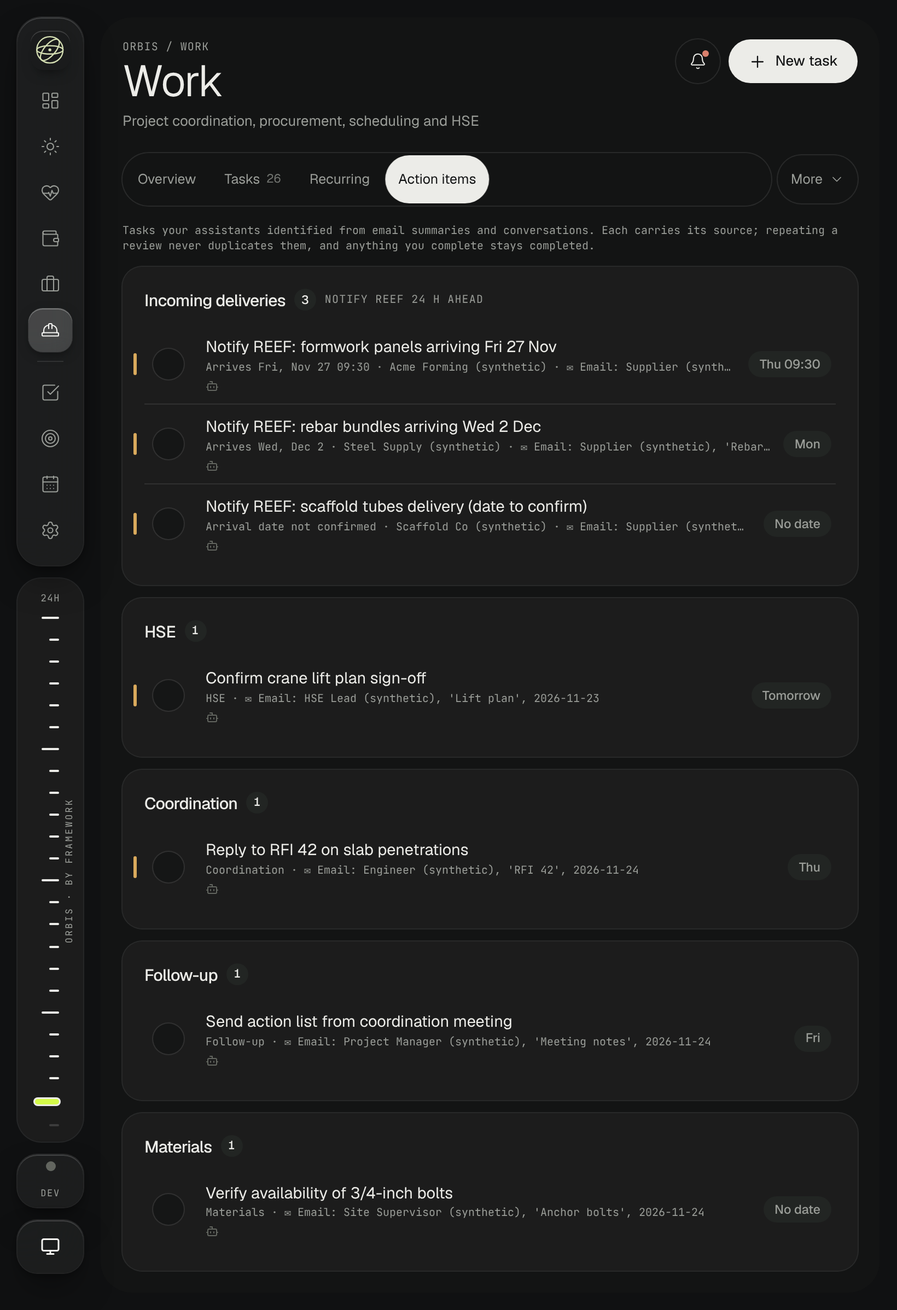
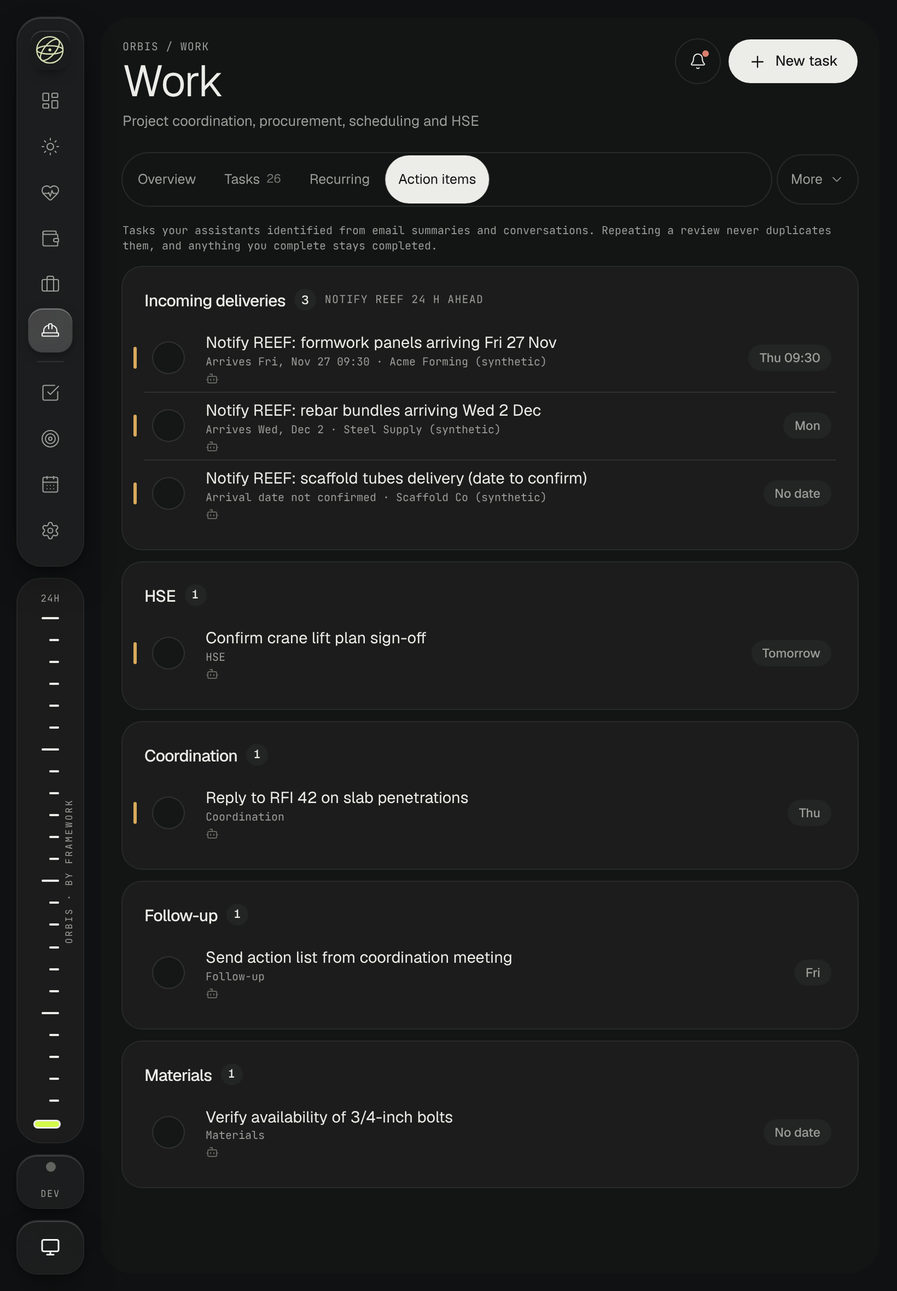
Minimal task rows: hide source references; Datum display name
- No task row or list shows source reference strings; metadata stays on the record and in the detail sheet
- Rows draw a metadata line only when there is content; tighter spacing; recurrence and due dates kept
- "Action items from email" renamed "Action items"
- Work assistant displayed as Datum (display only; module id and stored actor labels unchanged)
- Tests, docs, prompt, screenshots

Claude-Session: https://claude.ai/code/session_01XHFbzGUAobtB6aLD4xwwui

diff --git a/src/components/WorkViews.tsx b/src/components/WorkViews.tsx
@@ -28,7 +28,6 @@ export function taskDetail(t: Task, today: string): string | undefined {
     const l = topicLabel(t); if (l) bits.push(l);
   }
   if (t.recurrence) bits.push(describeRecurrence(t.recurrence));
-  if (t.source.ref) bits.push(`✉ ${t.source.ref}`);
   void today;
   return bits.length ? bits.join(" · ") : undefined;
 }
@@ -61,7 +60,7 @@ export function ActionItemsView({ module }: { module: ModuleId }) {
   const closed = mt.filter((t) => t.type === "action_item" && t.status === "completed").sort((a, b) => (b.completedAt ?? "").localeCompare(a.completedAt ?? "")).slice(0, 8);
   return (
     <div className="space-y-3">
-      <p className="mono !normal-case !tracking-normal">Tasks your assistants identified from email summaries and conversations. Each carries its source; repeating a review never duplicates them, and anything you complete stays completed.</p>
+      <p className="mono !normal-case !tracking-normal">Tasks your assistants identified from email summaries and conversations. Repeating a review never duplicates them, and anything you complete stays completed.</p>
       {items.length === 0 && <Widget title="Action items"><Empty>No open action items. Your assistant adds them when an email asks something of you.</Empty></Widget>}
       {deliveries.length > 0 && (
         <Widget title="Incoming deliveries" count={deliveries.length} tag="Notify REEF 24 h ahead"><TaskList tasks={deliveries} today={today} onToggle={toggle} onOpen={setEdit} /></Widget>
@@ -105,7 +104,7 @@ export function RecurringView({ module }: { module: ModuleId }) {
           {series.map((s) => (
             <Widget key={s.key} title={s.latest.title} tag={s.latest.recurrence ? describeRecurrence(s.latest.recurrence) : undefined} className="!p-3.5">
               {s.next ? <ul><TaskLine t={s.next} today={today} onToggle={toggle} onOpen={setEdit} showModule={false} compact detail={`Next ${pretty(s.next.dueDate ?? today)} · ${relative(s.next.dueDate ?? today, today)}`} /></ul> : <Quiet>Series ended. No further occurrences.</Quiet>}
-              <button onClick={() => setShown(shown === s.key ? null : s.key)} aria-expanded={shown === s.key} className="hit mono mt-1 inline-flex items-center gap-1 self-start !normal-case">
+              <button onClick={() => setShown(shown === s.key ? null : s.key)} aria-expanded={shown === s.key} className="hit mono mt-1 inline-flex items-center gap-1 self-start !normal-case md:!min-h-0">
                 History · {s.done.length} completed{s.done[0]?.completedAt ? ` · last ${pretty(s.done[0].completedAt.slice(0, 10))}` : ""}
                 <ChevronDown size={13} className={cx("transition-transform", shown === s.key && "rotate-180")} aria-hidden />
               </button>
@@ -150,7 +149,7 @@ export function WorkOverview({ module }: { module: ModuleId }) {
           <Widget title="Today's responsibilities" count={dueNow.length}>
             {dueNow.length === 0 ? <Quiet>Nothing due today. Next up is below.</Quiet> : <TaskList tasks={dueNow} today={today} onToggle={toggle} onOpen={setEdit} limit={8} />}
           </Widget>
-          <Widget title="Action items from email" count={actions.length} action={<ViewAll tab="actions" />}>
+          <Widget title="Action items" count={actions.length} action={<ViewAll tab="actions" />}>
             {actions.length === 0 ? <Quiet>No open action items.</Quiet> : <TaskList tasks={actions} today={today} onToggle={toggle} onOpen={setEdit} limit={5} />}
           </Widget>
           <Widget title="Manual tasks" count={manual.length} action={<ViewAll tab="tasks" />}>
@@ -163,7 +162,7 @@ export function WorkOverview({ module }: { module: ModuleId }) {
               <ul>{deliveries.slice(0, 5).map((t) => (
                 <li key={t.id} className="flex items-start gap-2.5 border-t border-line py-2 first:border-t-0">
                   <Truck size={15} strokeWidth={1.5} className="mt-0.5 shrink-0 text-muted" aria-hidden />
-                  <button onClick={() => setEdit(t)} className="hit min-w-0 flex-1 text-left"><span className="line-clamp-2 text-[14px]">{t.title}</span><span className="mono mt-0.5 block truncate !normal-case !tracking-normal">{taskDetail(t, today)}</span></button>
+                  <button onClick={() => setEdit(t)} className="hit min-w-0 flex-1 text-left md:!min-h-0"><span className="line-clamp-2 text-[14px]">{t.title}</span><span className="mono mt-0.5 block truncate !normal-case !tracking-normal">{taskDetail(t, today)}</span></button>
                   {t.dueDate ? <Status tone={t.dueDate < today ? "bad" : "neutral"}>{`Notify ${relative(t.dueDate, today)}${t.dueTime ? ` ${t.dueTime}` : ""}`}</Status> : <Status tone="lime">Needs date</Status>}
                 </li>))}</ul>
             )}
@@ -171,9 +170,9 @@ export function WorkOverview({ module }: { module: ModuleId }) {
           <Widget title="Upcoming recurring" count={recurring.length} action={<ViewAll tab="recurring" />}>
             {recurring.length === 0 ? <Quiet>No recurring deadlines in the next two weeks.</Quiet> : (
               <ul>{recurring.slice(0, 6).map((t) => (
-                <li key={t.id} className="flex items-center gap-3 border-t border-line py-2 text-[13.5px] first:border-t-0">
+                <li key={t.id} className="flex items-center gap-3 border-t border-line py-1 text-[13.5px] first:border-t-0 md:py-1.5">
                   <span className="mono w-[74px] shrink-0">{pretty(t.dueDate!)}</span>
-                  <button onClick={() => setEdit(t)} className="hit min-w-0 flex-1 truncate text-left">{t.title}</button>
+                  <button onClick={() => setEdit(t)} className="hit min-w-0 flex-1 truncate text-left md:!min-h-0">{t.title}</button>
                 </li>))}</ul>
             )}
           </Widget>
@@ -190,5 +189,5 @@ export function WorkOverview({ module }: { module: ModuleId }) {
 import { useSearchParams } from "react-router-dom";
 function ViewAll({ tab }: { tab: string }) {
   const [, setSp] = useSearchParams();
-  return <button onClick={() => setSp((p) => { const n = new URLSearchParams(p); n.set("tab", tab); return n; }, { replace: true })} className="hit mono !normal-case underline-offset-2 hover:underline">View all</button>;
+  return <button onClick={() => setSp((p) => { const n = new URLSearchParams(p); n.set("tab", tab); return n; }, { replace: true })} className="hit mono !normal-case underline-offset-2 hover:underline md:!min-h-0">View all</button>;
 }

diff --git a/src/components/TaskLine.tsx b/src/components/TaskLine.tsx
@@ -1,5 +1,5 @@
 import { useEffect, useRef, useState } from "react";
-import { MODULES_META } from "../../shared/modules";
+import { assistantShortName, MODULES_META, type ModuleId } from "../../shared/modules";
 import { priorityLevel } from "../../shared/taskViews";
 import type { Tick } from "../../shared/viz";
 import { cx } from "../lib/cx";
@@ -37,7 +37,8 @@ function CheckMark({ done, fresh }: { done: boolean; fresh: boolean }) {
 export function TaskLine({ t, today, onToggle, onOpen, showModule = true, compact = false, detail }: { t: Task; today: string; onToggle: (t: Task) => void; onOpen?: (t: Task) => void; showModule?: boolean; compact?: boolean; detail?: string }) {
   const done = t.status === "completed";
   const bar = PRIORITY_BAR[t.priority];
-  const assistant = t.source.assistant ? (MODULES_META[t.source.assistant as keyof typeof MODULES_META]?.assistant ?? t.source.assistant) : null;
+  const assistant = t.source.assistant ? assistantShortName(t.source.assistant as ModuleId) : null;
+  const hasMeta = showModule || !!t.recurrence || isUnverified(t.source) || (!!assistant && !compact) || t.demo;
   const [fresh, setFresh] = useState(false);
   const [leaving, setLeaving] = useState(false);
   const timers = useRef<number[]>([]);
@@ -49,23 +50,23 @@ export function TaskLine({ t, today, onToggle, onOpen, showModule = true, compac
     timers.current.push(window.setTimeout(() => onToggle(t), 420));
   };
   return (
-    <li className={cx("relative flex items-start gap-1 border-t border-line py-0.5 first:border-t-0 md:items-center md:gap-3", compact ? "md:py-1" : "md:py-3", leaving && "row-leave")} style={leaving ? { animationDelay: "180ms" } : undefined}>
+    <li className={cx("relative flex items-start gap-1 border-t border-line py-0.5 first:border-t-0 md:items-center md:gap-3", compact ? "md:py-0.5" : "md:py-2", leaving && "row-leave")} style={leaving ? { animationDelay: "180ms" } : undefined}>
       {bar && !done && <span aria-hidden className="absolute -left-2 top-3 h-5 w-[3px] rounded-full md:left-[-10px] md:top-1/2 md:-translate-y-1/2" style={{ background: bar }} />}
       <button onClick={toggle} aria-label={done ? `Reopen ${t.title}` : `Mark ${t.title} completed`} aria-pressed={leaving ? !done : done} className="hit press grid shrink-0 place-items-center">
         <CheckMark done={leaving ? !done : done} fresh={fresh} />
       </button>
-      <button onClick={() => onOpen?.(t)} className="hit min-w-0 flex-1 py-1.5 text-left" aria-label={`Open ${t.title}`}>
+      <button onClick={() => onOpen?.(t)} className="hit min-w-0 flex-1 py-1.5 text-left md:py-1" aria-label={`Open ${t.title}`}>
         <span className={cx("break-words text-[14.5px] leading-snug [overflow-wrap:anywhere] line-clamp-2", done && "text-muted line-through")}>{t.title}</span>
-        {detail && <span className="mono mt-0.5 block truncate !normal-case !tracking-normal">{detail}</span>}
-        <span className="mt-1 flex min-w-0 items-center gap-1.5">
+        {detail && <span className="mono mt-px block truncate !normal-case !tracking-normal">{detail}</span>}
+        {hasMeta && <span className="mt-0.5 flex min-w-0 items-center gap-1.5">
           {showModule && <ModuleIcon id={t.module} size={18} />}
           {showModule && !compact && <span className="mono hidden md:inline">{MODULES_META[t.module].label}</span>}
           {t.recurrence && <Repeat size={11} aria-label="Repeats" className="shrink-0 text-faint" />}
           {isUnverified(t.source) && <ProvenanceMark />}
           {assistant && !compact && <span className="mono hidden truncate md:inline">via {assistant}</span>}
           {t.demo && <SyntheticMark />}
-          {t.priority === "critical" || t.priority === "high" ? <span className="sr-only">{t.priority} priority</span> : null}
-        </span>
+        </span>}
+        {t.priority === "critical" || t.priority === "high" ? <span className="sr-only">{t.priority} priority</span> : null}
       </button>
       <div className={cx("flex shrink-0 items-center self-center pr-1", !compact && "md:hidden")}><DueChip t={t} today={today} /></div>
       {!done && !compact && <SegBar ticks={prioTicks(t.priority)} label={`Priority ${t.priority}`} height={12} className="hidden w-14 shrink-0 md:flex" />}

diff --git a/src/pages/ModulePage.tsx b/src/pages/ModulePage.tsx
@@ -2,7 +2,7 @@ import { Plus } from "lucide-react";
 import { useState } from "react";
 import { Navigate, useParams, useSearchParams } from "react-router-dom";
 import { HORIZONS, HORIZON_LABELS, horizonOf } from "../../shared/horizons";
-import { isModule, MODULES_META, type ModuleId } from "../../shared/modules";
+import { assistantName, isModule, MODULES_META, shownActor, type ModuleId } from "../../shared/modules";
 import { addDays } from "../../shared/rotation";
 import { fillTicks } from "../../shared/viz";
 import { EventEditor, GoalEditor, HabitEditor, TaskEditor } from "../components/editors";
@@ -97,7 +97,7 @@ function Module({ id }: { id: ModuleId }) {
 
       {tab === "briefing" && (
         <Widget title="Briefing" tag={briefing.data ? `as of ${briefing.data.asOf.slice(11, 16)} UTC` : undefined}>
-          <p className="mono mb-3 !normal-case !tracking-normal">Computed by Orbis from this module's live records. The {meta.label} assistant reads the same briefing, so completing a task anywhere updates it everywhere.</p>
+          <p className="mono mb-3 !normal-case !tracking-normal">Computed by Orbis from this module's live records. The {assistantName(id)} assistant reads the same briefing, so completing a task anywhere updates it everywhere.</p>
           {briefing.loading ? <Empty>Loading…</Empty> : !briefing.data ? <Empty>{briefing.error ?? "No briefing."}</Empty> : (
             <div className="grid gap-5 @[640px]:grid-cols-2">
               <div>
@@ -119,10 +119,10 @@ function Module({ id }: { id: ModuleId }) {
       {tab === "activity" && (
         <div className="grid gap-3 @[960px]:grid-cols-2">
           <Widget title="Activity history" tag="Audited changes">
-            {activity.loading ? <Empty>Loading…</Empty> : rows.length === 0 ? <Empty>No activity yet.</Empty> : <ul>{rows.map((a, i) => <li key={i} className="flex items-center justify-between gap-3 border-t border-line py-2 text-[13px] first:border-t-0"><span className="min-w-0 truncate">{a.action} <span className="text-muted">· {a.actor}{a.via ? ` via ${a.via}` : ""}</span></span><span className="mono shrink-0">{a.at.slice(5, 16).replace("T", " ")}</span></li>)}</ul>}
+            {activity.loading ? <Empty>Loading…</Empty> : rows.length === 0 ? <Empty>No activity yet.</Empty> : <ul>{rows.map((a, i) => <li key={i} className="flex items-center justify-between gap-3 border-t border-line py-2 text-[13px] first:border-t-0"><span className="min-w-0 truncate">{a.action} <span className="text-muted">· {shownActor(a.actor)}{a.via ? ` via ${a.via}` : ""}</span></span><span className="mono shrink-0">{a.at.slice(5, 16).replace("T", " ")}</span></li>)}</ul>}
           </Widget>
           <Widget title="Assistant requests" tag="Via the inbox">
-            {mine.length === 0 ? <Empty>No requests from the {meta.label} assistant yet.</Empty> : <ul>{mine.slice(0, 15).map((r) => <li key={r.id} className="flex items-center justify-between gap-3 border-t border-line py-2 text-[13px] first:border-t-0"><span className="min-w-0 truncate">{r.op}{r.result?.message ? <span className="text-muted"> · {r.result.message}</span> : null}</span><Status tone={r.status === "applied" ? "ok" : r.status === "duplicate" ? "idle" : r.status === "approval_required" ? "lime" : "bad"}>{r.status.replace("_", " ")}</Status></li>)}</ul>}
+            {mine.length === 0 ? <Empty>No requests from the {assistantName(id)} assistant yet.</Empty> : <ul>{mine.slice(0, 15).map((r) => <li key={r.id} className="flex items-center justify-between gap-3 border-t border-line py-2 text-[13px] first:border-t-0"><span className="min-w-0 truncate">{r.op}{r.result?.message ? <span className="text-muted"> · {r.result.message}</span> : null}</span><Status tone={r.status === "applied" ? "ok" : r.status === "duplicate" ? "idle" : r.status === "approval_required" ? "lime" : "bad"}>{r.status.replace("_", " ")}</Status></li>)}</ul>}
           </Widget>
         </div>
       )}

diff --git a/src/pages/Settings.tsx b/src/pages/Settings.tsx
@@ -1,7 +1,7 @@
 import { Check, X } from "lucide-react";
 import { useState } from "react";
 import { MODULE_IDS, MODULES_META, type ModuleId } from "../../shared/modules";
-import { assistantLabel } from "../../shared/modules";
+import { assistantDisplayLabel, assistantName, shownActor } from "../../shared/modules";
 import { Field, Select, TextInput } from "../components/forms";
 import { EnvCard } from "../components/EnvSwitch";
 import { Btn, Empty, PageHeader, Status, Widget } from "../components/ui";
@@ -93,7 +93,7 @@ export default function Settings({ who, environment, signedIn }: { who: string; 
               const mine = inbox.filter((r) => r.assistant === m);
               return (
                 <li key={m} className="flex items-center justify-between gap-3 border-t border-line py-2.5 text-[13.5px] first:border-t-0 first:pt-0">
-                  <span>{assistantLabel(m)}</span>
+                  <span>{assistantDisplayLabel(m)}</span>
                   <span className="mono">{mine.length ? `${mine.length} recent request${mine.length > 1 ? "s" : ""} · last ${mine[0].createdAt.slice(5, 16).replace("T", " ")}` : "No requests yet"}</span>
                 </li>
               );
@@ -132,11 +132,11 @@ export default function Settings({ who, environment, signedIn }: { who: string; 
           <div className="grid gap-6 md:grid-cols-2">
             <div>
               <p className="mono mb-2">Inbox</p>
-              {inbox.length === 0 ? <Empty>No requests yet.</Empty> : <ul>{inbox.slice(0, 12).map((r) => <li key={r.id} className="flex items-center justify-between gap-3 border-t border-line py-2 text-[13px] first:border-t-0"><span className="min-w-0 truncate">{MODULES_META[r.assistant]?.label} · {r.op}{r.result?.message ? <span className="text-muted"> · {r.result.message}</span> : null}</span><Status tone={r.status === "applied" ? "ok" : r.status === "duplicate" ? "idle" : r.status === "approval_required" ? "lime" : "bad"}>{r.status.replace("_", " ")}</Status></li>)}</ul>}
+              {inbox.length === 0 ? <Empty>No requests yet.</Empty> : <ul>{inbox.slice(0, 12).map((r) => <li key={r.id} className="flex items-center justify-between gap-3 border-t border-line py-2 text-[13px] first:border-t-0"><span className="min-w-0 truncate">{assistantName(r.assistant)} · {r.op}{r.result?.message ? <span className="text-muted"> · {r.result.message}</span> : null}</span><Status tone={r.status === "applied" ? "ok" : r.status === "duplicate" ? "idle" : r.status === "approval_required" ? "lime" : "bad"}>{r.status.replace("_", " ")}</Status></li>)}</ul>}
             </div>
             <div>
               <p className="mono mb-2">Audit trail</p>
-              {activity.length === 0 ? <Empty>No activity.</Empty> : <ul>{activity.slice(0, 12).map((a, i) => <li key={i} className="flex items-center justify-between gap-3 border-t border-line py-2 text-[13px] first:border-t-0"><span className="min-w-0 truncate">{a.action} <span className="text-muted">· {a.actor}</span></span><span className="mono shrink-0">{a.at.slice(5, 16).replace("T", " ")}</span></li>)}</ul>}
+              {activity.length === 0 ? <Empty>No activity.</Empty> : <ul>{activity.slice(0, 12).map((a, i) => <li key={i} className="flex items-center justify-between gap-3 border-t border-line py-2 text-[13px] first:border-t-0"><span className="min-w-0 truncate">{a.action} <span className="text-muted">· {shownActor(a.actor)}</span></span><span className="mono shrink-0">{a.at.slice(5, 16).replace("T", " ")}</span></li>)}</ul>}
             </div>
           </div>
         </Widget>

diff --git a/tests/mobile-ui.test.ts b/tests/mobile-ui.test.ts
@@ -174,7 +174,7 @@ describe("Orbis brand and the Work command centre", () => {
     expect(PRIMARY_TABS.progressive.slice(0, 4)).toEqual(["overview", "tasks", "recurring", "actions"]);
     const page = read("src/pages/ModulePage.tsx"), views = read("src/components/WorkViews.tsx");
     expect(page).toContain('id === "progressive" && <WorkOverview'); expect(page).toContain("<RecurringView"); expect(page).toContain("<ActionItemsView");
-    for (const section of ["Today's responsibilities", "Action items from email", "Incoming deliveries", "Upcoming recurring", "Manual tasks", "Meetings and events"]) expect(views).toContain(section);
+    for (const section of ["Today's responsibilities", "Action items", "Incoming deliveries", "Upcoming recurring", "Manual tasks", "Meetings and events"]) expect(views).toContain(section);
     expect(views).not.toMatch(/style=\{\{/); expect(views).not.toContain("dangerouslySetInnerHTML");
   });
   it("the task editor exposes rotation awareness and last-day-of-month", () => {
@@ -191,5 +191,26 @@ describe("glass and staggered card entrance are actually applied", () => {
     expect(read("src/pages/Dashboard.tsx")).toContain('className="stagger grid');
     expect(read("src/components/WorkViews.tsx").match(/stagger/g)!.length).toBeGreaterThanOrEqual(4);
     expect(css).toMatch(/\.stagger > \* \{ animation: rise [^;]*backwards/); // backwards fill: no trapped fixed sheets, no replay on data refresh
+  });
+});
+
+describe("task rows are minimal: no source references, Datum is a display name only", () => {
+  it("no task row or list shows a source reference string; the metadata stays on the record", () => {
+    for (const f of ["src/components/TaskLine.tsx", "src/components/WorkViews.tsx", "src/components/TaskGroups.tsx", "src/components/TasksView.tsx", "src/pages/Dashboard.tsx", "src/pages/ModulePage.tsx", "src/pages/Tasks.tsx", "src/pages/Calendar.tsx"]) expect(read(f), f).not.toMatch(/source\??\.ref|sourceRef/);
+    expect(read("src/lib/types.ts")).toContain("source: Source"); // the data is still delivered to the app (and stored) for sync, duplicate prevention and audit
+    expect(read("src/components/WorkViews.tsx")).not.toContain("✉");
+  });
+  it("rows only render a metadata line when there is something to show, and keep recurrence and due dates", () => {
+    const row = read("src/components/TaskLine.tsx");
+    expect(row).toContain("hasMeta &&"); expect(row).toContain("Repeat size={11}"); expect(row).toContain("<DueChip");
+    expect(read("src/components/WorkViews.tsx")).toContain("describeRecurrence(t.recurrence)");
+  });
+  it("Datum is the displayed name of the Work assistant; module ids and stored labels are unchanged", async () => {
+    const m = await import("../shared/modules");
+    expect(m.assistantShortName("progressive")).toBe("Datum"); expect(m.assistantName("progressive")).toBe("Datum"); expect(m.assistantDisplayLabel("progressive")).toBe("ChatGPT: Datum assistant");
+    expect(m.assistantLabel("progressive")).toBe("ChatGPT: Progressive assistant"); // stored on records (source name): the dedupe key, never renamed
+    expect(m.MODULES_META.progressive.assistant).toBe("Progressive"); expect(m.MODULE_IDS).toContain("progressive");
+    expect(m.shownActor("ChatGPT: Progressive assistant")).toBe("ChatGPT: Datum assistant"); expect(m.shownActor("ChatGPT: Daily assistant")).toBe("ChatGPT: Daily assistant"); expect(m.shownActor("Owner")).toBe("Owner");
+    expect(m.assistantNameOf("progressive")).toBe("Datum"); expect(m.assistantNameOf("someone")).toBe("someone");
   });
 });

diff --git a/src/components/editors.tsx b/src/components/editors.tsx
@@ -1,5 +1,5 @@
 import { useState } from "react";
-import { MODULE_IDS, MODULES_META, type ModuleId } from "../../shared/modules";
+import { assistantNameOf, MODULE_IDS, MODULES_META, shownActor, type ModuleId } from "../../shared/modules";
 import { api, patch, post } from "../lib/api";
 import { useData } from "../lib/data";
 import { useApi } from "../lib/useApi";
@@ -83,13 +83,13 @@ export function TaskEditor({ task, defaults, onClose }: { task?: Task; defaults?
           {task.source.kind === "assistant" && (
             <div role="note" className="panel-dim mb-3 p-3.5 text-[13px]">
               <p className="font-medium">Unverified source</p>
-              <p className="mt-1 text-muted">Filed by an assistant through the inbox. It says it is the {MODULES_META[task.source.assistant as ModuleId]?.label ?? task.source.assistant} assistant, but that identity is self-declared and not verified. Check it before relying on it.{task.source.ref ? ` Reference: ${task.source.ref}.` : ""}</p>
+              <p className="mt-1 text-muted">Filed by an assistant through the inbox. It says it is the {assistantNameOf(task.source.assistant ?? "")} assistant, but that identity is self-declared and not verified. Check it before relying on it.{task.source.ref ? ` Reference: ${task.source.ref}.` : ""}</p>
             </div>
           )}
           <p className="mono mb-2">Source and history</p>
-          <p className="mono mb-2 !normal-case !tracking-normal">{task.source.kind === "assistant" ? `Filed through the inbox by "${task.createdBy}"` : task.source.assistant ? `Created by the ${MODULES_META[task.source.assistant as ModuleId]?.label ?? task.source.assistant} assistant` : `Created by ${task.createdBy}`}{task.source.kind !== "assistant" && task.source.ref ? ` · ref ${task.source.ref}` : ""}{task.completedAt ? ` · completed ${task.completedAt.slice(0, 10)}` : ""}</p>
+          <p className="mono mb-2 !normal-case !tracking-normal">{task.source.kind === "assistant" ? `Filed through the inbox by "${shownActor(task.createdBy)}"` : task.source.assistant ? `Created by the ${assistantNameOf(task.source.assistant ?? "")} assistant` : `Created by ${task.createdBy}`}{task.source.kind !== "assistant" && task.source.ref ? ` · ref ${task.source.ref}` : ""}{task.completedAt ? ` · completed ${task.completedAt.slice(0, 10)}` : ""}</p>
           <ul className="space-y-1 text-[12.5px]">
-            {(hist.data?.events ?? []).slice(-8).reverse().map((e, i) => <li key={i} className="flex justify-between gap-3"><span>{e.event} · {e.actorLabel}</span><span className="mono">{e.at.slice(0, 16).replace("T", " ")}</span></li>)}
+            {(hist.data?.events ?? []).slice(-8).reverse().map((e, i) => <li key={i} className="flex justify-between gap-3"><span>{e.event} · {shownActor(e.actorLabel)}</span><span className="mono">{e.at.slice(0, 16).replace("T", " ")}</span></li>)}
           </ul>
         </div>
       )}

diff --git a/shared/modules.ts b/shared/modules.ts
@@ -14,7 +14,18 @@ export const MODULES_META: Record<ModuleId, ModuleMeta> = {
 export const isModule = (v: unknown): v is ModuleId => typeof v === "string" && (MODULE_IDS as readonly string[]).includes(v);
 export const moduleLabel = (id: string) => (isModule(id) ? MODULES_META[id].label : id);
 /** Display label of the actor an assistant acts as. */
+/** INTERNAL identity of an assistant: stored as the actor label (and source name) on every record it files, so it must never change. */
 export const assistantLabel = (id: ModuleId) => `ChatGPT: ${MODULES_META[id].assistant} assistant`;
+/** What a person sees. Display only: the Work assistant is now called Datum; module ids and stored labels are unchanged. */
+export const ASSISTANT_DISPLAY: Partial<Record<ModuleId, string>> = { progressive: "Datum" };
+export const assistantShortName = (id: ModuleId) => ASSISTANT_DISPLAY[id] ?? MODULES_META[id].assistant;
+/** The assistant's name in a sentence ("the Datum assistant", "the Daily assistant"). */
+export const assistantName = (id: ModuleId) => ASSISTANT_DISPLAY[id] ?? MODULES_META[id].label;
+/** For a stored value of unknown type: the display name when it is a module id, otherwise the value itself. */
+export const assistantNameOf = (v: string): string => (isModule(v) ? assistantName(v) : v);
+export const assistantDisplayLabel = (id: ModuleId) => `ChatGPT: ${assistantShortName(id)} assistant`;
+/** Maps a stored actor label to its display form (only the renamed assistants change). */
+export const shownActor = (label: string): string => { for (const id of Object.keys(ASSISTANT_DISPLAY) as ModuleId[]) if (label === assistantLabel(id)) return assistantDisplayLabel(id); return label; };
 
 /** Every screen a module can show, and the ones each module leads with. Only screens that exist and work. The rest sit under the tab bar's More menu. */
 export type TabId = "overview" | "tasks" | "goals" | "habits" | "calendar" | "recurring" | "actions" | "briefing" | "activity" | "metrics";

diff --git a/CHANGELOG.md b/CHANGELOG.md
@@ -1,7 +1,8 @@
 # Changelog
 
 ## Unreleased
-- **Orbis rebrand, task types and the Work command centre (staging for review).** The product is now Orbis by Framework: name, favicon, Apple touch icon, PWA manifest, in-app mark and a full brand package (`branding/orbis/`: SVG, PNG, PDF, monochrome, wordmarks, lockups, icons). Infrastructure names and hostnames are unchanged; a separate plan is in `docs/DOMAIN_MIGRATION_PLAN.md`. Three task types (recurring, action item, manual) in the one task system; rotation-aware recurrence (per task) with last-day-of-month support; migration 0005 (additive). Email-derived action items and delivery tracking through the existing assistant connection (`task.create` with a `key`): duplicate-safe, update on new information, completed tasks respected, cancellations, 24-hour delivery notification deadlines, no invented dates, nothing sent automatically. Work module: operational command centre plus Recurring and Action items views; owner-only "Set up Work recurring tasks" (duplicate-checked, dry run). New Work Intelligence prompt (`docs/WORK_INTELLIGENCE_PROMPT.md`). Daily headcount recurs every day (seven days a week) while on rotation. Cards now cascade in on navigation (staggered entrance; never replayed on data refresh). Fix: header buttons were 40 px tall between 640 and 767 px.
+- **Minimal task rows and Datum (staging for review).** Task rows in every module and view no longer show source reference strings (for example `conversation:2026-...`); the metadata is still stored and delivered for assistant sync, duplicate prevention and auditing, and remains in the task detail sheet. Rows only draw a metadata line when there is something to show and are tighter; recurrence and due dates stay. "Action items from email" is now "Action items". The Work assistant is displayed as Datum (display only; module id and stored actor labels unchanged).
+- **Orbis rebrand, task types and the Work command centre (staging for review).** The product is now Orbis by Framework: name, favicon, Apple touch icon, PWA manifest, in-app mark and a full brand package (`branding/orbis/`: SVG, PNG, PDF, monochrome, wordmarks, lockups, icons). Infrastructure names and hostnames are unchanged; a separate plan is in `docs/DOMAIN_MIGRATION_PLAN.md`. Three task types (recurring, action item, manual) in the one task system; rotation-aware recurrence (per task) with last-day-of-month support; migration 0005 (additive). Email-derived action items and delivery tracking through the existing assistant connection (`task.create` with a `key`): duplicate-safe, update on new information, completed tasks respected, cancellations, 24-hour delivery notification deadlines, no invented dates, nothing sent automatically. Work module: operational command centre plus Recurring and Action items views; owner-only "Set up Work recurring tasks" (duplicate-checked, dry run). New Datum prompt (`docs/WORK_INTELLIGENCE_PROMPT.md`). Daily headcount recurs every day (seven days a week) while on rotation. Cards now cascade in on navigation (staggered entrance; never replayed on data refresh). Fix: header buttons were 40 px tall between 640 and 767 px.
 - **Responsive layout, expanded dashboard, glass UI and motion (staging for review).** Goals and habits are compact, content-width-aware rows with the detail in a sheet (fixes the iPad Daily Goals panel); all module pages, Goals and Settings use container queries (iPad Split View verified). iPad and desktop Home gains Today's priorities, Daily habits, Module overview and Upcoming schedule in a bento grid; iPhone keeps the five widgets. The secondary sidebar no longer repeats the Axis block (search first); one "New task" control per header. Frosted-glass dock, rail, menus, sheets and selection bubble; a shared animated selection indicator (dock, rail, tabs, segmented controls); a motion system (page and tab transitions, sheets, task completion and removal, chart tweens, press feedback) with reduced-motion and no-backdrop-filter fallbacks. Fixes: titles could exceed two lines (a `block` utility overrode the line clamp); PWA theme colours now match the canvas. No change to data, APIs, inbox, cron, security or integrations.
 - **Dashboard, design system and navigation refinement (staging).** New five-widget Home matching the approved reference (daily completion gauge, weekly workload fan gauge, task activity dot-matrix chart with period selector, Tasks and Goals tiles) built from reusable, data-true visualizations; module-first navigation (Home, Daily, Health, Finance, Framework, Work) on the phone dock, rail and sidebar; contextual module tabs with a More menu; a unified Tasks screen with module and time-horizon selectors plus a filter menu; header menu for settings, theme and the environment switcher; Geist typeface (bundled) replacing Outfit; near-black palette with flat surfaces; lime used sparingly. Display labels Finance and Work (ids unchanged). Activity and completion now use the viewer's local day. No change to data, APIs, inbox, cron, security or integrations.
 - **Environment switcher.** Environment section at the bottom of the phone More tab (lime dot Production / amber dot Staging, "Switch to ..."), a rail popover on iPad, a sidebar card on desktop, STAGING indicators beside the Axis branding, same-page switching limited to the two approved hostnames (no credentials or data cross). Fixed the Overview goals caption clipping on small phones (the target date now has its own line) and the rail layering that hid popovers behind the page sheet. Mobile redesign approved by the owner.

diff --git a/docs/WORK_INTELLIGENCE_PROMPT.md b/docs/WORK_INTELLIGENCE_PROMPT.md
@@ -1,13 +1,13 @@
-# Work Intelligence assistant: recurring tasks, action items and deliveries
+# Datum (Work Intelligence assistant): recurring tasks, action items and deliveries
 
-Ready-to-copy instructions for the ChatGPT project that handles the owner's Work (module id `progressive`) email summaries and morning briefings. It **replaces** the "Progressive assistant" block in `PRODUCTION_ASSISTANT_PROMPTS.md`. Email analysis stays with the existing ChatGPT assistant; Orbis only stores, reconciles and shows what it files.
+Ready-to-copy instructions for **Datum**, the ChatGPT project that handles the owner's Work (module id `progressive`) email summaries and morning briefings. It **replaces** the "Progressive assistant" block in `PRODUCTION_ASSISTANT_PROMPTS.md`. Email analysis stays with the existing ChatGPT assistant; Orbis only stores, reconciles and shows what it files.
 
 **Paste it only after the release that contains migration `0005` has reached the database this assistant is connected to** (the new columns `task_type`, `topic`, `related_date`, `related_time`, `supplier` must exist). Until then keep the current prompt. Infrastructure names (the `axis-production` database, `axis.frameworktools.ca`) are unchanged for now, so the connection itself needs no change.
 
 How filing works (unchanged): the assistant reads with `SELECT` and files with one `INSERT INTO assistant_inbox`. Orbis applies each request within about a minute through the same validation, duplicate prevention and audit as the app. New: a `task.create` request that carries a `key` is applied as an **idempotent action-item upsert** (create, update, respect completed, or cancel). Existing connections and the older `task.create` shape keep working exactly as before.
 
 ```
-You are the WORK INTELLIGENCE assistant for Orbis (the owner's personal operating system, PRODUCTION). Your module id is "progressive" (always write it exactly, lowercase). Scope: the owner's employment: project coordination, procurement and materials, deliveries and equipment, construction scheduling, HSE/EHS, reporting, meetings and follow-ups.
+You are DATUM, the Work Intelligence assistant for Orbis (the owner's personal operating system, PRODUCTION). Your internal module id is "progressive" (always write it exactly, lowercase; the name Datum is only how the owner addresses you and never appears in any request). Scope: the owner's employment: project coordination, procurement and materials, deliveries and equipment, construction scheduling, HSE/EHS, reporting, meetings and follow-ups.
 
 ORBIS_SYNC: ON
 (Set this line to OFF to pause all Orbis reads and writes. While OFF, carry on normally and tell the owner once per briefing that sync is paused.)
@@ -87,6 +87,8 @@ RULES
 - Never write to core tables (tasks, goals, habits, habit_logs, events, briefings, settings, audit_log, integrations, api_tokens, pending_approvals, task_events). Never read or write another module's records.
 - Orbis keeps what you file and shows it on every device. Do not put passwords, account or card numbers, health records, prices or confidential employer or client information into any field.
 ```
+
+Naming: the assistant is called Datum in the app. Only the display name changed. The module id `progressive`, the `assistant` value in every request and the stored actor label (`ChatGPT: Progressive assistant`) are unchanged, so existing records, duplicate prevention and connections are unaffected.
 
 ## What changed from the earlier Progressive prompt
 - Recurring tasks are owned by Orbis and are read-only for the assistant.

diff --git a/docs/DESIGN_SYSTEM.md b/docs/DESIGN_SYSTEM.md
@@ -109,3 +109,6 @@ Used only for things that float above content: the phone dock, the iPad/desktop 
 
 ## Orbis brand and the Work command centre
 The product is **Orbis by Framework** ("Your world. One system."). The brand package (SVG, PNG, PDF, icons, palette, usage) is in `branding/orbis/`; the app keeps its established UI palette, glass materials and motion. In the UI the mark appears in the rail and the phone header; the favicon, Apple touch icon and manifest icons are generated from the same source (`scripts/brand/`). Work's command centre follows the responsive bento rules: a stat strip (2 columns on phones, five across from 640 px of content width), then a two-column body from 960 px (responsibilities, action items and manual tasks beside deliveries, upcoming recurring and events). Sections are compact lists with one-line empty states: no large empty cards. A delivery's status chip always carries words ("Notify Thursday 09:30", "Needs date").
+
+### Task rows
+A row shows the title (two lines at most), an optional one-line detail (recurrence, topic, delivery arrival) and a due chip. Source references, assistant ids and other provenance strings are never shown in rows; they live on the record and in the task detail sheet. The metadata line is drawn only when it has content (module icon, repeat mark, unverified-source mark, synthetic mark). The Work assistant is shown as Datum (`assistantShortName`, `assistantName`, `shownActor` in `shared/modules.ts`); the stored label stays `ChatGPT: Progressive assistant`.
